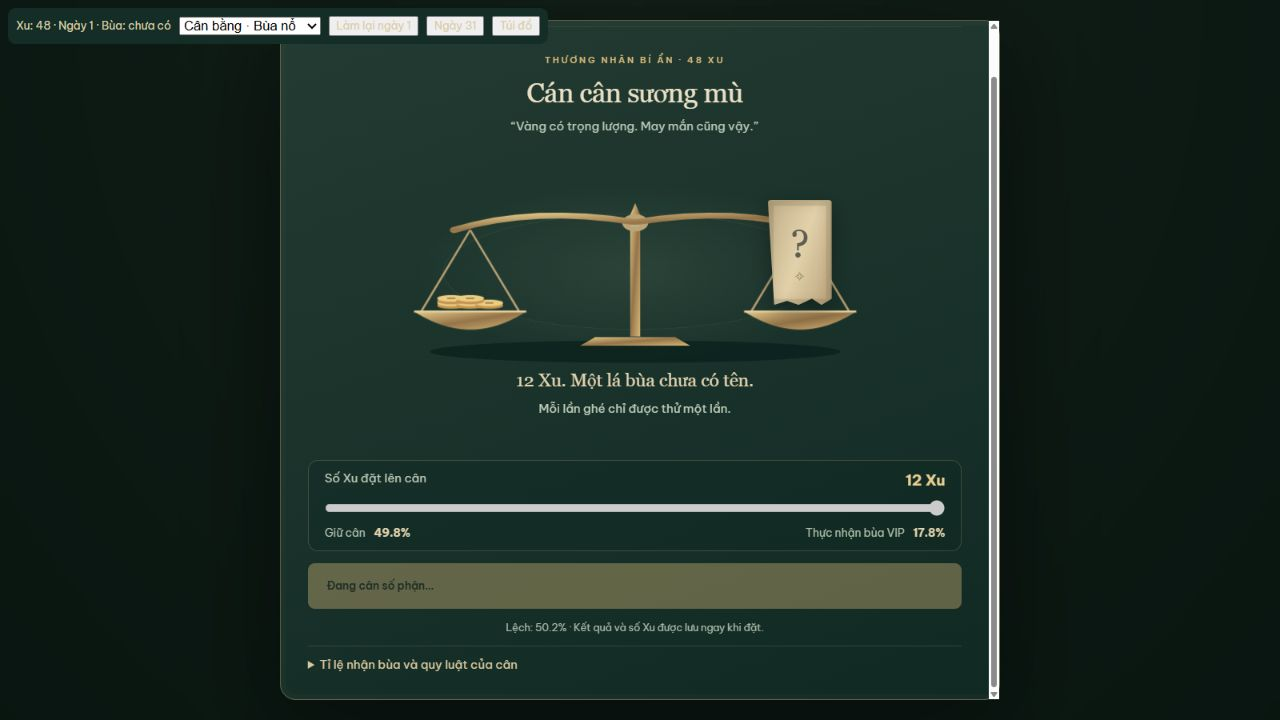
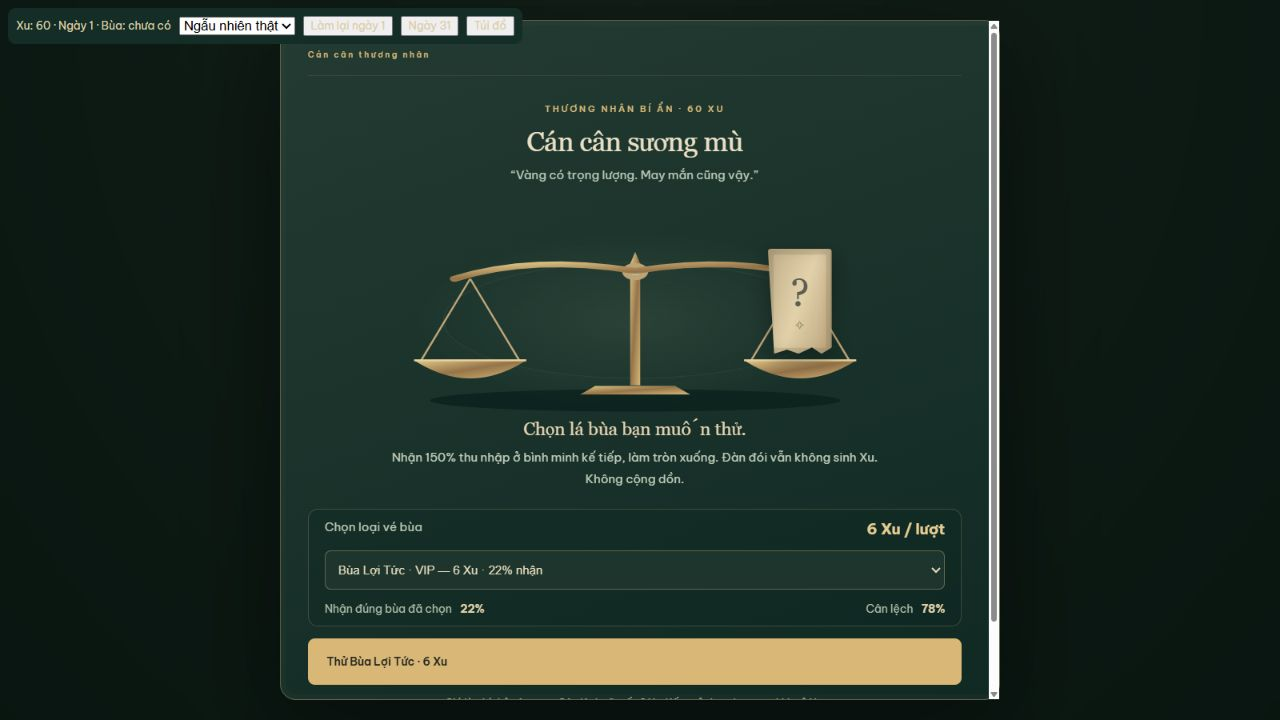
Let players choose charm tickets with individual prices and odds

diff --git a/src/game/MysticBalance.jsx b/src/game/MysticBalance.jsx
@@ -1,5 +1,5 @@
 import { useEffect, useState } from 'react';
-import { CHARMS, MIN_OFFERING, MAX_OFFERING, DEFAULT_OFFERING, charmOdds, balanceOdds, charmGrade } from './charms.js';
+import { CHARMS, charmOffer, charmOffers, ritualChance, charmGrade } from './charms.js';
 import { merchantAvailable, nextMerchantDay } from './rules.js';
 import ItemArt from './ItemArt.jsx';
 import { sound, unlockAudio } from './audio.js';
@@ -8,7 +8,7 @@ import './mystic.css';
 export default function MysticBalance({ state, dispatch }) {
   const ritual = state.magic?.ritual?.day === state.day ? state.magic.ritual : null;
   const [stage, setStage] = useState(ritual?.claimed ? 'done' : 'idle');
-  const [offering, setOffering] = useState(DEFAULT_OFFERING);
+  const [selected, setSelected] = useState('forageCharm');
   useEffect(() => {
     if (!ritual) { setStage('idle'); return; }
     if (ritual.claimed) { setStage('done'); return; }
@@ -25,9 +25,10 @@ export default function MysticBalance({ state, dispatch }) {
   const definition = shown ? CHARMS[ritual.item] : null;
   const spent = state.magic?.lastWeighedDay === state.day;
   const available = merchantAvailable(state);
-  const coins = ritual?.coins || offering, odds = balanceOdds(state.day, coins), tilt = Math.max(-16, Math.min(16, (ritual?.delta || 0) * 9));
-  const title = stage === 'weighing' ? `${coins} Xu. Một lá bùa chưa có tên.` : stage === 'settled' ? ritual.balanced ? 'Cán cân đứng yên… nó đã chọn bạn.' : `Cán cân nghiêng. Sương mù giữ lại ${coins} Xu.` : stage === 'reveal' ? 'Ấn phép đang hiện ra.' : stage === 'burn' ? 'Giấy hóa tro. Phép thuật ở lại.' : ritual ? ritual.balanced ? CHARMS[ritual.item].name : 'Không có lá bùa nào đáp lại.' : 'Đặt cược với màn sương.';
-  function weigh() { unlockAudio(); dispatch({ type: 'WEIGH_CHARM', coins: offering, balanceRoll: Math.random(), charmRoll: Math.random() }); }
+  const target = ritual?.item || selected, offer = charmOffer(state.day, target), coins = ritual?.coins || offer.price;
+  const chance = ritual ? ritualChance(ritual) : offer.chance, tilt = Math.max(-16, Math.min(16, (ritual?.delta || 0) * 9));
+  const title = stage === 'weighing' ? `${CHARMS[target].name} đã được niêm phong.` : stage === 'settled' ? ritual.balanced ? 'Cán cân đứng yên… nó đã chọn bạn.' : `Cán cân nghiêng. Sương mù giữ lại ${coins} Xu.` : stage === 'reveal' ? 'Ấn phép đang hiện ra.' : stage === 'burn' ? 'Giấy hóa tro. Phép thuật ở lại.' : ritual ? (ritual.balanced ? CHARMS[ritual.item].name : 'Lá bùa chưa đáp lại.') : 'Chọn lá bùa bạn muốn thử.';
+  function weigh() { unlockAudio(); dispatch({ type: 'WEIGH_CHARM', item: selected, balanceRoll: Math.random() }); }
   return <section className={`mystic-balance stage-${stage} ${ritual ? ritual.balanced ? 'is-balanced' : 'is-failed' : ''}`} style={{ '--failure-tilt': `${tilt}deg`, '--failure-counter': `${-tilt}deg`, '--failed-card-top': tilt > 0 ? '62%' : '36%' }} aria-label="Cân bùa của thương nhân bí ẩn">
     <header><span className="eyebrow">THƯƠNG NHÂN BÍ ẨN · {state.gold} XU</span><h2>Cán cân sương mù</h2><p>“Vàng có trọng lượng. May mắn cũng vậy.”</p></header>
     <div className="mystic-stage" aria-label={ritual ? ritual.balanced ? 'Cân đang giữ thăng bằng' : 'Cân bị lệch' : 'Đĩa trái để trống, lá bùa dấu hỏi ở đĩa phải'}>
@@ -44,11 +45,11 @@ export default function MysticBalance({ state, dispatch }) {
       </svg>
       <div className="scale-card-wrap"><div className="charm-paper">{shown ? <ItemArt item={ritual.item} size={124}/> : <div className="unknown-charm"><span>?</span><i>✧</i></div>}</div>{stage === 'burn' && <><div className="charm-flame"/>{Array.from({length:18},(_,i)=><i className="charm-ember" key={i} style={{'--drift':`${Math.sin(i*2.399)*85}px`,'--delay':`${i*.055}s`}}/>)}</>}</div>
     </div>
-    <div className="mystic-result" role="status" aria-live="polite"><h3>{title}</h3><p>{definition ? definition.description : !ritual ? 'Nhiều Xu gọi bùa quý hơn, nhưng khiến cán cân khó đứng yên hơn. Cân lệch sẽ mất toàn bộ số Xu đã đặt.' : stage === 'done' && !ritual.balanced ? 'Có thể cân lại vào lần ghé tiếp theo.' : 'Mỗi lần ghé chỉ được thử một lần.'}</p>{stage === 'done' && ritual?.balanced && <small>{ritual.item === 'hungerCurse' ? 'Lời nguyền đã kích hoạt.' : 'Ấn phép đã vào túi đồ I. Dùng vật phẩm để kích hoạt.'}</small>}</div>
-    <div className="charm-offering"><label htmlFor="charm-coins">Số Xu đặt lên cân <strong>{coins} Xu</strong></label><input id="charm-coins" aria-label="Số Xu đặt lên cân" type="range" min={MIN_OFFERING} max={MAX_OFFERING} step="1" value={coins} disabled={!!busy || !!ritual} onChange={e => setOffering(Number(e.target.value))}/><div className="charm-estimates"><span>Giữ cân <b>{odds.balanced.toFixed(1)}%</b></span><span>Thực nhận bùa VIP <b>{odds.vip.toFixed(1)}%</b></span></div></div>
-    <button className="button primary full mystic-stake" disabled={!available || spent || !!busy || state.gold < offering} onClick={weigh}>{busy ? 'Đang cân số phận…' : spent ? `Lần cân tới: ngày ${nextMerchantDay(state.day)}` : `Đặt ${offering} Xu lên cân`}</button>
+    <div className="mystic-result" role="status" aria-live="polite"><h3>{title}</h3><p>{definition ? definition.description : !ritual ? CHARMS[target].description : stage === 'done' && !ritual.balanced ? 'Có thể cân lại vào lần ghé tiếp theo.' : 'Mỗi lần ghé chỉ được thử một lần.'}</p>{stage === 'done' && ritual?.balanced && <small>{ritual.item === 'hungerCurse' ? 'Lời nguyền đã kích hoạt.' : 'Ấn phép đã vào túi đồ I. Dùng vật phẩm để kích hoạt.'}</small>}</div>
+    <div className="charm-offering"><label htmlFor="charm-target">Chọn loại vé bùa <strong>{coins} Xu / lượt</strong></label>{offer ? <select id="charm-target" aria-label="Loại bùa muốn thử" value={target} disabled={!!busy || !!ritual} onChange={e => setSelected(e.target.value)}>{charmOffers(state.day).map(row => <option key={row.id} value={row.id}>{CHARMS[row.id].name}{charmGrade(row.id) === 2 ? ' · VIP' : ''} — {row.price} Xu · {(row.chance * 100).toFixed(0)}% nhận</option>)}</select> : <p>Lượt cân cũ đang được hoàn tất.</p>}<div className="charm-estimates"><span>Nhận đúng bùa đã chọn <b>{(chance*100).toFixed(0)}%</b></span><span>Cân lệch <b>{((1-chance)*100).toFixed(0)}%</b></span></div></div>
+    <button className="button primary full mystic-stake" disabled={!available || spent || !!busy || !offer || state.gold < offer.price} onClick={weigh}>{busy ? 'Đang cân số phận…' : spent ? `Lần cân tới: ngày ${nextMerchantDay(state.day)}` : `Thử ${CHARMS[target].name} · ${coins} Xu`}</button>
     {!available && <p className="mystic-note">Thương nhân chỉ ghé ban ngày của ngày 1, 3, 5…</p>}
-    <p className="mystic-note">Lệch: {(100-odds.balanced).toFixed(1)}% · Kết quả và số Xu được lưu ngay khi đặt.</p>
-    <details className="charm-odds"><summary>Tỉ lệ nhận bùa và quy luật của cân</summary><p>Mỗi Xu tăng năng lượng gọi bùa: bùa hiếm được thêm trọng số 8%/Xu, bùa VIP thêm 35%/Xu so với mức đặt 1 Xu. Trọng số Bùa Lợi Tức giảm từ 8 xuống 2 theo số ngày sống sót.</p><p>Biên dao động = 1,25 + 0,055 × (Xu − 1) + 0,13 × độ hiếm (0/1/2). Cân rút độ lệch ngẫu nhiên đều trong ±biên; chỉ giữ được khi độ lệch không quá 1. Tỉ lệ thực nhận dưới đây đã tính cả nguy cơ cân lệch.</p><div>{charmOdds(state.day,coins).map(({id,receiveChance})=><article key={id}><ItemArt item={id} size={46}/><span><strong>{CHARMS[id].name}{charmGrade(id) === 2 ? ' · VIP' : ''}</strong><small>{CHARMS[id].description}</small></span><b>{receiveChance.toFixed(1)}%</b></article>)}</div></details>
+    <p className="mystic-note">Giá là phí thử vận may. Cân lệch sẽ mất {coins} Xu. Kết quả được lưu ngay khi trả Xu.</p>
+    <details className="charm-odds"><summary>Giá vé bùa và quy luật của cân</summary><p>Bùa thường có vé rẻ và tỉ lệ nhận cao. Bùa VIP có vé đắt hơn và khó nhận hơn. Thành công sẽ nhận đúng loại đã chọn.</p><p>Cân rút độ lệch đều trong ±(1 / tỉ lệ nhận). Chỉ giữ được khi |độ lệch| ≤ 1. Lợi Tức giảm 2 điểm phần trăm sau mỗi 5 ngày, tối thiểu 8%.</p><div>{charmOffers(state.day).map(({id,price,chance:rate})=><article key={id}><ItemArt item={id} size={46}/><span><strong>{CHARMS[id].name}{charmGrade(id) === 2 ? ' · VIP' : ''}</strong><small>{price} Xu / lượt · {CHARMS[id].description}</small></span><b>{(rate*100).toFixed(0)}%</b></article>)}</div></details>
   </section>;
 }

diff --git a/src/game/charms.test.js b/src/game/charms.test.js
@@ -1,13 +1,12 @@
 import test from 'node:test';
 import assert from 'node:assert/strict';
 import * as T from 'three';
-import { charmOdds, balanceOdds, drawCharm, balanceDrift, CHARM_ITEMS, BOMB_DAMAGE } from './charms.js';
+import { charmOffers, charmOffer, CHARM_ITEMS, BOMB_DAMAGE } from './charms.js';
 import { newGame, gameReducer as reduce, advanceDawn, readSave, SAVE_KEY } from './rules.js';
 import { evolveWolf, calculateStrike } from './catalog.js';
 import { PveEngine } from './PveEngine.js';
 import { createCombatCharms } from './combatCharms.js';
-const rollFor = (id, day = 1, coins = 3) => { const pool = charmOdds(day, coins); let before = 0; for (const row of pool) { if (row.id === id) return (before + row.chance / 2) / 100; before += row.chance; } throw new Error(id); };
-const bet = (state, id, coins = 3, balanceRoll = .5) => reduce(state, { type: 'WEIGH_CHARM', coins, balanceRoll, charmRoll: rollFor(id, state.day, coins) });
+const bet = (state, id, balanceRoll = .5) => reduce(state, { type: 'WEIGH_CHARM', item: id, balanceRoll });
 const claim = state => reduce(state, { type: 'RESOLVE_CHARM', id: state.magic.ritual.id });
 function fight() {
   let state = newGame(); const wolf = { ...evolveWolf('normal', 1), id: 'test-wolf', wolf: true, penId: 0, checked: [], defeated: false };
@@ -15,56 +14,66 @@ function fight() {
 }
 const restore = state => readSave({ getItem: key => key === SAVE_KEY ? JSON.stringify(state) : null });
 
-test('larger offerings raise actual VIP rewards while making balance harder; later interest remains rarer', () => {
-  for (const day of [1, 11, 31, 100]) {
-    let previous = null;
-    for (let coins = 1; coins <= 12; coins++) {
-      const pool = charmOdds(day, coins), odds = balanceOdds(day, coins);
-      assert.ok(Math.abs(pool.reduce((sum, row) => sum + row.chance, 0) - 100) < 1e-8);
-      assert.ok(Math.abs(pool.reduce((sum, row) => sum + row.receiveChance, 0) - odds.balanced) < 1e-8);
-      assert.ok(odds.vip > 0 && odds.vip < odds.balanced && odds.balanced < 100);
-      if (previous) { assert.ok(odds.vip > previous.vip); assert.ok(odds.balanced < previous.balanced); }
-      for (const row of pool) assert.equal(drawCharm(day, rollFor(row.id, day, coins), coins), row.id);
-      previous = odds;
-    }
-  }
-  for (const coins of [1, 3, 6, 12]) assert.ok(charmOdds(31, coins).find(row => row.id === 'yieldCharm').receiveChance < charmOdds(1, coins).find(row => row.id === 'yieldCharm').receiveChance);
+test('each selected charm ticket has its own fixed fee and chance, with expensive VIP rewards less likely', () => {
+  const offers = charmOffers(1);
+  assert.equal(offers.length, 8);
+  assert.equal(charmOffer(1, 'forageCharm').price, 1); assert.equal(charmOffer(1, 'forageCharm').chance, .85);
+  assert.equal(charmOffer(1, 'yieldCharm').price, 6); assert.equal(charmOffer(1, 'yieldCharm').chance, .22);
+  for (const a of offers) for (const b of offers) if (a.price > b.price) assert.ok(a.chance < b.chance);
+  assert.equal(charmOffer(1, 'hungerCurse'), null);
+  assert.ok(charmOffer(31, 'yieldCharm').chance < charmOffer(1, 'yieldCharm').chance);
+  assert.equal(charmOffer(100, 'yieldCharm').chance, .08);
 });
 
-test('the saved signed weight deviation, rather than an unrelated success roll, decides balance', () => {
-  for (const coins of [1, 3, 12]) for (const id of Object.keys(CHARM_ITEMS)) {
-    for (const balanceRoll of [0, .05, .3, .5, .7, .95, .999]) {
-      const state = bet(newGame(), id, coins, balanceRoll), ritual = state.magic.ritual;
-      assert.ok(Math.abs(ritual.delta - (balanceRoll * 2 - 1) * balanceDrift(coins, id)) < 1e-10);
+test('the signed deviation reproduces each displayed ticket chance and only rewards the selected charm', () => {
+  for (const day of [1, 31]) for (const id of Object.keys(CHARM_ITEMS)) {
+    const offer = charmOffer(day, id);
+    let wins = 0;
+    for (let i = 0; i < 200; i++) {
+      const roll = (i + .5) / 200, state = bet({ ...newGame(), day }, id, roll), ritual = state.magic.ritual;
+      assert.ok(Math.abs(ritual.delta - (roll * 2 - 1) / offer.chance) < 1e-10);
+      assert.equal(ritual.item, id); assert.equal(ritual.coins, offer.price); assert.equal(ritual.chance, offer.chance);
       assert.equal(ritual.balanced, Math.abs(ritual.delta) <= 1);
-      assert.equal(state.gold, 25 - coins);
+      assert.equal(state.gold, 25 - offer.price);
+      if (ritual.balanced) { wins++; assert.equal(claim(state).inventory[id], 1); }
     }
+    assert.ok(Math.abs(wins / 200 - offer.chance) < .011, 'advertised probability matches observed wins across the roll interval');
   }
 });
 
-test('one paid offering per visit survives save/close/resume and awards its charm exactly once', () => {
-  let state = bet(newGame(), 'bombCharm', 9);
-  assert.equal(state.inventory.bombCharm || 0, 0, 'reward stays sealed until the ritual finishes');
-  assert.equal(bet(state, 'yieldCharm', 12).gold, state.gold);
+test('one paid offering per visit survives save/close/resume and awards its selected charm exactly once', () => {
+  let state = bet(newGame(), 'bombCharm');
+  assert.equal(state.inventory.bombCharm || 0, 0);
+  assert.equal(bet(state, 'yieldCharm').gold, state.gold);
   assert.deepEqual(restore(state).magic, state.magic);
   assert.equal(reduce(state, { type: 'RESOLVE_CHARM', id: 'wrong' }).inventory.bombCharm || 0, 0);
   state = claim(restore(state)); assert.equal(state.inventory.bombCharm, 1);
   assert.equal(claim(state).inventory.bombCharm, 1);
   assert.equal(bet(state, 'blinkCharm').gold, state.gold);
   const night = reduce(bet(newGame(), 'blinkCharm'), { type: 'NIGHT', residents: [] });
-  assert.equal(night.inventory.blinkCharm, 1, 'leaving before the animation ends does not lose the paid result');
+  assert.equal(night.inventory.blinkCharm, 1);
   const nextVisit = { ...advanceDawn({ ...night, residents: [] }, () => .9), day: 3 };
-  assert.equal(bet(nextVisit, 'speedCharm').gold, nextVisit.gold - 3);
+  assert.equal(bet(nextVisit, 'speedCharm').gold, nextVisit.gold - charmOffer(3, 'speedCharm').price);
 });
 
-test('failed offerings keep the cost; invalid stakes, absent merchants and direct charm purchases cannot bypass the scale', () => {
-  const failed = claim(bet(newGame(), 'moonCharm', 12, .999));
-  assert.equal(failed.gold, 13); assert.equal(failed.inventory.moonCharm || 0, 0);
-  for (const coins of [0, -1, 13, 1.5, NaN, Infinity]) assert.equal(bet(newGame(), 'bombCharm', coins).gold, 25);
-  assert.equal(bet({ ...newGame(), gold: 2 }, 'bombCharm', 3).gold, 2);
+test('failed tickets keep their fee and cannot choose a prize with a forged cheap price', () => {
+  const failed = claim(bet(newGame(), 'moonCharm', .999));
+  assert.equal(failed.gold, 20); assert.equal(failed.inventory.moonCharm || 0, 0);
+  for (const item of ['unknown', 'hungerCurse', '', null]) assert.equal(bet(newGame(), item).gold, 25);
+  const forged = reduce(newGame(), { type: 'WEIGH_CHARM', item: 'yieldCharm', coins: 1, balanceRoll: .5 });
+  assert.equal(forged.gold, 19); assert.equal(forged.magic.ritual.coins, 6);
+  assert.equal(bet({ ...newGame(), gold: 2 }, 'bombCharm').gold, 2);
   assert.equal(bet({ ...newGame(), day: 2 }, 'bombCharm').gold, 25);
   assert.equal(bet({ ...newGame(), phase: 'night' }, 'bombCharm').gold, 25);
   assert.equal(reduce(newGame(), { type: 'BUY', item: 'bombCharm' }).inventory.bombCharm || 0, 0);
+});
+
+test('a previously paid random-pool ritual keeps its result when loaded after the ticket update', () => {
+  const state = newGame(); state.gold = 13;
+  state.magic = { sequence: 1, lastWeighedDay: 1, ritual: { id: 'scale-1-1', day: 1, coins: 12, item: 'moonCharm', delta: 0, balanced: true, claimed: false } };
+  const loaded = restore(state); assert.ok(loaded);
+  const resolved = claim(loaded); assert.equal(resolved.gold, 13); assert.equal(resolved.inventory.moonCharm, 1);
+  assert.equal(claim(resolved).inventory.moonCharm, 1);
 });
 
 test('bombs and teleports consume owned charms; delayed bomb damage cannot be replayed after a reload', () => {
@@ -108,7 +117,8 @@ test('interest pays 150 percent once, respects hunger, and the bad charm adds on
   assert.equal(reduce(state, { type: 'USE', item: 'yieldCharm' }).inventory.yieldCharm, 1);
   const morning = advanceDawn(state, () => .9); assert.equal(morning.gold - state.gold, 7); assert.equal(morning.farm.incomeMultiplier, 1);
   assert.equal(advanceDawn({ ...state, farm: { ...state.farm, fed: false } }, () => .9).gold, state.gold);
-  const cursed = claim(bet(newGame(), 'hungerCurse'));
+  const legacy = newGame(); legacy.magic = { sequence: 1, lastWeighedDay: 1, ritual: { id: 'legacy-curse', day: 1, coins: 3, item: 'hungerCurse', delta: 0, balanced: true, claimed: false } };
+  const cursed = claim(legacy);
   assert.equal(claim(cursed).farm.hungerCurse, 10);
   const hungry = advanceDawn(cursed, () => .9); assert.equal(hungry.flock[0].hunger, 25); assert.equal(hungry.farm.hungerCurse, 0);
   const boosted = { ...morning, inventory: { ...morning.inventory, forageCharm: 1, hay: 11 } };

diff --git a/src/game/GameApp.jsx b/src/game/GameApp.jsx
@@ -45,7 +45,7 @@ export default function GameApp() {
     {panel === 'mystic' && <Modal title="Thương nhân bí ẩn" className="camp-menu charm-modal" onClose={close}><MysticBalance state={state} dispatch={dispatch} /></Modal>}
     {panel === 'inventory' && <Modal title="Túi đồ" className="camp-menu" onClose={close}><Inventory state={state} dispatch={dispatch} /></Modal>}
     {['home', 'farm'].includes(panel) && <Modal title={panel === 'home' ? 'Nhà chủ trại · Giường nghỉ' : 'Sinh hoạt trang trại'} className="camp-menu" onClose={close}><FarmActivities state={state} dispatch={dispatch} />{night && <NightInvestigation state={state} dispatch={dispatch} penId={0} />}<button className="button primary full" onClick={() => dispatch({ type: night ? 'DAWN' : 'NIGHT' })}>{night ? 'Kết thúc ca gác · Đón bình minh' : 'Nghỉ đến tối · Bắt đầu canh gác'}</button>{night && <p className="modal-copy">Bỏ qua ca gác vẫn tính sói ăn cừu.</p>}{!night && <button className="button secondary full" disabled={state.gold < state.targetGold} onClick={() => dispatch({ type: 'SELL' })}>Bán trang trại · {state.gold}/{state.targetGold}</button>}</Modal>}
-    {panel === 'guide' && <Modal title="Biển hướng dẫn Trại Sương" className="camp-menu" onClose={close}><h2>Chăm đàn ban ngày. Canh sói ban đêm.</h2><div className="guide-copy"><p>WASD đi lại · chuột nhìn · E tương tác ở gần · F đèn pin · Ctrl phải mở chuột · Esc cài đặt.</p><p>Mở cửa cho cừu ra bãi khi trời nắng. Độ no tăng khi chúng gặm cỏ. Ngày mưa cần cỏ khô trong kho hoặc mua từ người bán.</p><p>Đi tới bãi cỏ riêng phía đông, bước vào luống và nhấn E để cắt. Mỗi ngày nắng có 2 luống, mỗi luống được 2 bó cỏ khô; cỏ mọc lại sáng hôm sau. Mỗi ngày có 25% khả năng mưa, độc lập với những ngày trước.</p><p>Giường ở nhà: nghỉ đến tối hoặc ngủ đến sáng. Thương nhân ghé ban ngày của ngày 1, 3, 5…; ngày nghỉ sẽ không có gian hàng. Tab mở sinh hoạt, I mở túi đồ.</p><p>Đánh sói: WASD di chuyển, J tấn công, K đỡ, Space né. Bùa nổ: R, dịch chuyển: Q khi có bùa trong túi. Thương nhân bí ẩn có cân bùa cho phép đặt 1–12 Xu; nhiều Xu gọi bùa VIP nhiều hơn nhưng cân khó giữ hơn. Canh lúc sói hồi chiêu để phản đòn; đỡ đúng lúc tránh toàn bộ sát thương.</p><p>H gọi Shiba kiểm tra chuồng. Chó nghỉ hết đêm đó và sáng mai hồi phục; khi không kiểm tra sẽ tự hỗ trợ chiến đấu.</p><p>Tông đơ an toàn 2 lần đầu; từ lần 3 có xác suất hỏng tăng dần. Mỗi lần cạo vẫn dùng một pin.</p></div></Modal>}
+    {panel === 'guide' && <Modal title="Biển hướng dẫn Trại Sương" className="camp-menu" onClose={close}><h2>Chăm đàn ban ngày. Canh sói ban đêm.</h2><div className="guide-copy"><p>WASD đi lại · chuột nhìn · E tương tác ở gần · F đèn pin · Ctrl phải mở chuột · Esc cài đặt.</p><p>Mở cửa cho cừu ra bãi khi trời nắng. Độ no tăng khi chúng gặm cỏ. Ngày mưa cần cỏ khô trong kho hoặc mua từ người bán.</p><p>Đi tới bãi cỏ riêng phía đông, bước vào luống và nhấn E để cắt. Mỗi ngày nắng có 2 luống, mỗi luống được 2 bó cỏ khô; cỏ mọc lại sáng hôm sau. Mỗi ngày có 25% khả năng mưa, độc lập với những ngày trước.</p><p>Giường ở nhà: nghỉ đến tối hoặc ngủ đến sáng. Thương nhân ghé ban ngày của ngày 1, 3, 5…; ngày nghỉ sẽ không có gian hàng. Tab mở sinh hoạt, I mở túi đồ.</p><p>Đánh sói: WASD di chuyển, J tấn công, K đỡ, Space né. Bùa nổ: R, dịch chuyển: Q khi có bùa trong túi. Thương nhân bí ẩn có cân bùa: chọn loại vé muốn thử, mỗi loại có giá và tỉ lệ nhận riêng; bùa VIP đắt và khó nhận hơn. Canh lúc sói hồi chiêu để phản đòn; đỡ đúng lúc tránh toàn bộ sát thương.</p><p>H gọi Shiba kiểm tra chuồng. Chó nghỉ hết đêm đó và sáng mai hồi phục; khi không kiểm tra sẽ tự hỗ trợ chiến đấu.</p><p>Tông đơ an toàn 2 lần đầu; từ lần 3 có xác suất hỏng tăng dần. Mỗi lần cạo vẫn dùng một pin.</p></div></Modal>}
     {panel === 'settings' && <Modal title="Cài đặt" onClose={close}><h2>Tạm nghỉ.</h2><label className="settings-field">Độ khó<select aria-label="Độ khó" value={state.difficulty} onChange={e => dispatch({ type: 'DIFFICULTY', value: e.target.value })}><option value="easy">Dễ · Cừu miễn sát thương trong trận</option><option value="normal">Thường · Cừu chịu nhiều đòn mới chết</option><option value="hard">Khó · Sói gây sát thương cao hơn</option></select></label><label className="settings-field">Độ nhạy chuột · {sensitivity.toFixed(1)}<input aria-label="Độ nhạy chuột" type="range" min=".2" max="2" step=".1" value={sensitivity} onChange={e => setSensitivity(Number(e.target.value))} /></label><div className="settings-links"><button className="button secondary" onClick={() => open('farm')}>Sinh hoạt</button><button className="button secondary" onClick={() => open('inventory')}>Túi đồ</button><button className="button secondary" onClick={() => open('guide')}>Biển hướng dẫn</button><button className="button secondary" onClick={fullscreen}>Toàn màn hình</button><button className="button secondary" onClick={() => changeMuted(v => !v)}>{muted ? 'Bật âm thanh' : 'Tắt âm thanh'}</button><button className="button secondary" onClick={() => { setPanel(null); setStarted(false); }}>Màn hình chính</button></div>{saveError && <p>Không thể lưu tiến trình trong trình duyệt này.</p>}<button className="button primary full" onClick={close}>Tiếp tục chơi</button></Modal>}
     {panel === 'new' && <Modal title="Chơi lại" onClose={() => setPanel(null)}><p className="modal-copy">Thay bản lưu hiện tại bằng trang trại mới?</p><button className="button primary full" onClick={() => begin(true)}>Bắt đầu lại</button></Modal>}
     {terminal && started && <Modal title={state.phase === 'win' ? 'Ngày trở về' : 'Mất trang trại'}><h2>{state.phase === 'win' ? 'Giữ được lời hứa.' : 'Sương đã nuốt mất trại.'}</h2><p className="modal-copy">{state.report}</p><button className="button primary full" onClick={() => begin(true)}>Một câu chuyện mới</button><button className="button secondary full" onClick={() => setStarted(false)}>Màn hình chính</button></Modal>}

diff --git a/src/game/rules.js b/src/game/rules.js
@@ -1,6 +1,6 @@
 import { ITEMS, WOLVES, spawnWolves, evolveWolf, absorbDamage, calculateStrike } from './catalog.js';
 import { inMeadowPatch } from './worldMath.js';
-import { CHARMS, MIN_OFFERING, MAX_OFFERING, BOMB_DAMAGE, drawCharm, balanceDrift } from './charms.js';
+import { CHARMS, MIN_OFFERING, MAX_OFFERING, BOMB_DAMAGE, charmOffer } from './charms.js';
 export const SAVE_KEY = 'under-the-wool-v3';
 export const SHEEP_NAMES = ['Bông', 'Mây', 'Sữa', 'Bắp', 'Mochi', 'Mè', 'Kem', 'Đậu'];
 export const TELLS = ['eyes', 'paws', 'teeth', 'body', 'tail'];
@@ -100,9 +100,10 @@ function reduce(state, action) {
   switch (action.type) {
     case 'NEW': return newGame();
     case 'WEIGH_CHARM': {
-      if (!merchantAvailable(state) || !Number.isInteger(action.coins) || action.coins < MIN_OFFERING || action.coins > MAX_OFFERING || state.gold < action.coins || state.magic.lastWeighedDay === state.day || state.magic.ritual && !state.magic.ritual.claimed || ![action.balanceRoll, action.charmRoll].every(value => Number.isFinite(value) && value >= 0 && value < 1)) return state;
-      const sequence = state.magic.sequence + 1, item = drawCharm(state.day, action.charmRoll, action.coins), drift = balanceDrift(action.coins, item), delta = (action.balanceRoll * 2 - 1) * drift, balanced = Math.abs(delta) <= 1;
-      return { ...state, gold: state.gold - action.coins, magic: { ...state.magic, sequence, lastWeighedDay: state.day, ritual: { id: `scale-${state.day}-${sequence}`, day: state.day, coins: action.coins, delta, balanced, item, claimed: false } }, report: `Đã đặt ${action.coins} Xu lên cân. Số phận của lá bùa đã được định.` };
+      const offer = charmOffer(state.day, action.item);
+      if (!offer || !merchantAvailable(state) || state.gold < offer.price || state.magic.lastWeighedDay === state.day || state.magic.ritual && !state.magic.ritual.claimed || !Number.isFinite(action.balanceRoll) || action.balanceRoll < 0 || action.balanceRoll >= 1) return state;
+      const sequence = state.magic.sequence + 1, delta = (action.balanceRoll * 2 - 1) / offer.chance, balanced = Math.abs(delta) <= 1;
+      return { ...state, gold: state.gold - offer.price, magic: { ...state.magic, sequence, lastWeighedDay: state.day, ritual: { id: `scale-${state.day}-${sequence}`, model: 'target-v1', day: state.day, coins: offer.price, chance: offer.chance, delta, balanced, item: offer.id, claimed: false } }, report: `Đã mua lượt cân ${CHARMS[offer.id].name} với ${offer.price} Xu. Kết quả đã được niêm phong.` };
     }
     case 'RESOLVE_CHARM': return action.id === state.magic.ritual?.id ? settleRitual(state) : state;
     case 'DIFFICULTY': return ['easy', 'normal', 'hard'].includes(action.value) && state.phase !== 'combat' ? { ...state, difficulty: action.value } : state;
@@ -275,6 +276,7 @@ export function readSave(storage = localStorage) {
     if (s.magic && (!Number.isInteger(s.magic.sequence) || s.magic.sequence < 0 || !Number.isInteger(s.magic.lastWeighedDay) || s.magic.lastWeighedDay < 0 || s.magic.lastWeighedDay > s.day)) return null;
     const ritual = s.magic?.ritual;
     if (ritual && (typeof ritual.id !== 'string' || !Number.isInteger(ritual.day) || ritual.day < 1 || ritual.day > s.day || !Number.isInteger(ritual.coins) || ritual.coins < MIN_OFFERING || ritual.coins > MAX_OFFERING || !Number.isFinite(ritual.delta) || !CHARMS[ritual.item] || typeof ritual.balanced !== 'boolean' || typeof ritual.claimed !== 'boolean' || ritual.balanced !== (Math.abs(ritual.delta) <= 1))) return null;
+    if (ritual?.model === 'target-v1' && (!charmOffer(ritual.day, ritual.item) || !Number.isFinite(ritual.chance) || ritual.chance <= 0 || ritual.chance >= 1)) return null;
     if (s.player.speedBuff != null && ![1, 1.35].includes(s.player.speedBuff) || s.player.charmDamageBuff != null && ![1, 1.3].includes(s.player.charmDamageBuff) || s.player.wardCharges != null && ![0, 1].includes(s.player.wardCharges) || s.farm.incomeMultiplier != null && ![1, 1.5].includes(s.farm.incomeMultiplier)) return null;
     if (s.combat?.pendingBomb != null && (!Number.isInteger(s.combat.pendingBomb) || s.combat.pendingBomb < 1 || s.combat.pendingBomb > s.combat.charmSequence)) return null;
     if (s.residents.some(a => !a || typeof a.id !== 'string' || !Array.isArray(a.checked) || (a.wolf && (!WOLVES[a.type] || !Array.isArray(a.tells))))) return null;

diff --git a/src/game/charms.js b/src/game/charms.js
@@ -1,6 +1,5 @@
 export const MIN_OFFERING = 1;
 export const MAX_OFFERING = 12;
-export const DEFAULT_OFFERING = 3;
 export const BOMB_DAMAGE = 34;
 export const CHARMS = {
   forageCharm: { name: 'Bùa Cỏ Non', glyph: 'sprout', color: '#a8c887', description: 'Đổi thành 2 bó cỏ khô ngoài chiến đấu. Kho tối đa 12 bó.' },
@@ -15,22 +14,26 @@ export const CHARMS = {
 };
 export const CHARM_ITEMS = Object.fromEntries(Object.entries(CHARMS).filter(([id]) => id !== 'hungerCurse').map(([id, charm]) => [id, { ...charm, id, price: 0, shop: 'charm' }]));
 export function charmGrade(id) { return ['moonCharm', 'yieldCharm'].includes(id) ? 2 : ['forageCharm', 'insightCharm'].includes(id) ? 0 : 1; }
-export function balanceDrift(coins, id) { return 1.25 + .055 * (coins - 1) + .13 * charmGrade(id); }
-export function charmOdds(day = 1, coins = DEFAULT_OFFERING) {
-  coins = Math.max(MIN_OFFERING, Math.min(MAX_OFFERING, Math.floor(Number(coins) || MIN_OFFERING)));
-  const interest = Math.max(2, 8 - Math.floor(Math.max(0, day - 1) / 5));
-  const pool = Object.entries({ forageCharm: 24 - interest, insightCharm: 16, wardCharm: 14, moonCharm: 8, bombCharm: 15, blinkCharm: 12, speedCharm: 9, yieldCharm: interest, hungerCurse: 2 }).map(([id, weight]) => ({ id, weight: weight * (charmGrade(id) === 2 ? 1 + .35 * (coins - 1) : charmGrade(id) === 1 && id !== 'hungerCurse' ? 1 + .08 * (coins - 1) : 1) }));
-  const total = pool.reduce((sum, row) => sum + row.weight, 0);
-  return pool.map(({id, weight}) => { const chance = weight / total * 100, balanceChance = 1 / balanceDrift(coins, id); return { id, chance, balanceChance, receiveChance: chance * balanceChance }; });
+export const CHARM_TICKETS = {
+  forageCharm: { price: 1, chance: .85 },
+  insightCharm: { price: 2, chance: .75 },
+  wardCharm: { price: 3, chance: .65 },
+  speedCharm: { price: 3, chance: .62 },
+  bombCharm: { price: 4, chance: .55 },
+  blinkCharm: { price: 4, chance: .5 },
+  moonCharm: { price: 5, chance: .35 },
+  yieldCharm: { price: 6, chance: .22 },
+};
+export function charmOffer(day, id) {
+  const ticket = CHARM_TICKETS[id];
+  if (!ticket) return null;
+  const chance = id === 'yieldCharm' ? Math.max(.08, ticket.chance - Math.floor(Math.max(0, day - 1) / 5) * .02) : ticket.chance;
+  return { id, price: ticket.price, chance };
 }
-export function balanceOdds(day, coins) {
-  const pool = charmOdds(day, coins);
-  return { balanced: pool.reduce((sum, row) => sum + row.receiveChance, 0), vip: pool.filter(row => charmGrade(row.id) === 2).reduce((sum, row) => sum + row.receiveChance, 0) };
-}
-export function drawCharm(day, roll, coins = DEFAULT_OFFERING) {
-  let value = Math.min(.999999999, Math.max(0, Number.isFinite(roll) ? roll : 0)) * 100;
-  for (const item of charmOdds(day, coins)) { value -= item.chance; if (value < 0) return item.id; }
-  return 'hungerCurse';
+export function charmOffers(day = 1) { return Object.keys(CHARM_TICKETS).map(id => charmOffer(day, id)); }
+// Pending rituals from the previous random-pool version keep their paid result.
+export function ritualChance(ritual) {
+  return ritual.chance ?? 1 / (1.25 + .055 * (ritual.coins - 1) + .13 * charmGrade(ritual.item));
 }
 export function canUseCharm(state, id) {
   if (!['day', 'night', 'combat'].includes(state.phase) || !(state.inventory[id] > 0)) return false;

diff --git a/dev/charms.jsx b/dev/charms.jsx
@@ -4,7 +4,7 @@ import { createRoot } from 'react-dom/client';
 import MysticBalance from '../src/game/MysticBalance.jsx';
 import { Inventory } from '../src/game/PhasePanels.jsx';
 import { newGame, gameReducer } from '../src/game/rules.js';
-import { charmOdds, CHARMS } from '../src/game/charms.js';
+import { CHARMS } from '../src/game/charms.js';
 import { Modal } from '../src/game/ui.jsx';
 import '../src/game/game.css';
 import '../src/game/gdd.css';
@@ -16,10 +16,7 @@ function reducer(state, action) {
   if (action.type === 'QA_CASE') return { ...state, qaCase: action.value };
   if (action.type === 'QA_BAG') return { ...state, qaBag: !state.qaBag };
   if (action.type === 'QA_RESET') return { ...fresh(action.day || 1), qaRun: state.qaRun + 1 };
-  if (action.type === 'WEIGH_CHARM' && state.qaCase !== 'random') {
-    let before = 0; const id = state.qaCase === 'failure' ? 'bombCharm' : state.qaCase;
-    for (const row of charmOdds(state.day, action.coins)) { if (row.id === id) { action = { ...action, charmRoll: (before + row.chance / 2) / 100, balanceRoll: state.qaCase === 'failure' ? .999 : .5 }; break; } before += row.chance; }
-  }
+  if (action.type === 'WEIGH_CHARM' && state.qaCase !== 'random') action = { ...action, balanceRoll: state.qaCase === 'failure' ? .999 : .5 };
   return gameReducer(state, action);
 }
 function Preview() {
@@ -27,7 +24,7 @@ function Preview() {
   return <div className="game-app immersive quiet-farm is-playing" style={{ background: 'radial-gradient(ellipse at top,#3c5144,#102720)' }}>
     <div style={{position:'fixed',left:8,top:8,zIndex:2000,display:'flex',gap:8,alignItems:'center',padding:8,background:'#142d27',color:'#dacda9',fontSize:11,borderRadius:8}}>
       <span role="status">Xu: {state.gold} · Ngày {state.day} · Bùa: {Object.entries(state.inventory).filter(([id,n])=> CHARMS[id]&&n>0).map(([id,n])=>`${CHARMS[id].name} ×${n}`).join(', ') || 'chưa có'}</span>
-      <select aria-label="Kết quả kiểm thử" value={state.qaCase} onChange={e=>dispatch({type:'QA_CASE',value:e.target.value})}><option value="random">Ngẫu nhiên thật</option><option value="bombCharm">Cân bằng · Bùa nổ</option><option value="yieldCharm">Cân bằng · Lợi tức</option><option value="hungerCurse">Cân bằng · Bùa đen</option><option value="failure">Cân lệch</option></select>
+      <select aria-label="Kết quả kiểm thử" value={state.qaCase} onChange={e=>dispatch({type:'QA_CASE',value:e.target.value})}><option value="random">Ngẫu nhiên thật</option><option value="success">Cân bằng</option><option value="failure">Cân lệch</option></select>
       <button onClick={()=>dispatch({type:'QA_RESET',day:1})}>Làm lại ngày 1</button><button onClick={()=>dispatch({type:'QA_RESET',day:31})}>Ngày 31</button><button onClick={()=>dispatch({type:'QA_BAG'})}>{state.qaBag?'Trở về cân':'Túi đồ'}</button>
     </div>
     <Modal title={state.qaBag?'Túi đồ kiểm thử':'Cán cân thương nhân'} className="camp-menu charm-modal">{state.qaBag?<Inventory state={state} dispatch={dispatch}/>:<MysticBalance key={`${state.day}-${state.qaRun}`} state={state} dispatch={dispatch}/>}</Modal>

diff --git a/src/game/mystic.css b/src/game/mystic.css
@@ -7,3 +7,5 @@
 
 .mystic-stage{height:230px}.mystic-balance header h2{font-size:28px;margin:5px 0}.mystic-balance header p{margin:6px 0}.mystic-result{min-height:82px}.mystic-result h3{font-size:18px;margin-bottom:6px}.charm-offering{padding:10px 16px}.charm-offering input{margin:10px 0}.mystic-stake{margin-top:4px}.charm-odds{margin-top:10px;padding-top:10px}
 @media(max-width:650px){.mystic-stage{height:205px}.mystic-result{min-height:95px}.mystic-balance header h2{font-size:24px}.charm-estimates{font-size:10px;gap:5px}}
+
+.charm-offering select{width:100%;max-width:100%;margin:12px 0;padding:11px 9px;border-radius:6px;border:1px solid #c2b28666;background:#1d352d;color:#e8ddbf;font-size:12px;cursor:pointer}.charm-offering select:disabled{opacity:.75;cursor:default}

diff --git a/README.md b/README.md
@@ -82,10 +82,12 @@ Bản lưu v3 dùng khóa `under-the-wool-v3`. Bản v2 được chuyển tiền
 
 ## Cân bùa và phép thuật
 
-Thương nhân bí ẩn ở bên trái sân có chiếc cân riêng; E mở nghi thức trong game. Mỗi lần ghé (ngày 1, 3, 5…) chỉ cân một lần, chọn đặt 1–12 Xu. Nhiều Xu tăng trọng số bùa hiếm 8%/Xu, VIP 35%/Xu so với mức 1 Xu. Hệ thống gọi một bùa trước, rồi rút độ lệch đều trong ±[1,25 + 0,055 × (Xu−1) + 0,13 × độ hiếm]. Chỉ nhận khi |độ lệch| ≤ 1. Xác suất giữ cân và thực nhận VIP đều được tính từ đúng mô hình này, hiển thị trước khi đặt. Ngày 1: 1 Xu khoảng 73,9% giữ cân / 10,6% nhận VIP; 12 Xu khoảng 49,8% / 17,8%. Cân lệch mất toàn bộ Xu đặt.
+Thương nhân bí ẩn ở bên trái sân có chiếc cân riêng; E mở nghi thức trong game. Mỗi lần ghé (ngày 1, 3, 5…) chỉ thử một lần. Người chơi chọn loại vé bùa trước: Cỏ Non 1 Xu/85%, Mắt Cú 2 Xu/75%, Da Đá 3 Xu/65%, Phong Hành 3 Xu/62%, Hỏa Bộc 4 Xu/55%, Dịch Chuyển 4 Xu/50%, Trăng Bạc VIP 5 Xu/35%, Lợi Tức VIP 6 Xu/22%. Bùa đắt có tỉ lệ nhận thấp hơn; thành công nhận đúng loại chọn. Lợi Tức giảm 2 điểm phần trăm sau mỗi 5 ngày, tối thiểu 8%.
+
+Giá lượt và xác suất được tra theo loại bùa trong reducer; client không được tự đặt giá. Cân rút độ lệch đều trong ±(1 / xác suất nhận), thành công khi |độ lệch| ≤ 1; xác suất hiển thị vì thế đúng với cơ chế cân. Cân lệch mất phí lượt. Lá giấy niêm phong vẫn có dấu hỏi cho đến khi kết quả hiện ra.
 
 Kết quả, số Xu và độ lệch được lưu ngay khi đặt. Cân thành công thì lá bùa lộ ký hiệu và bốc cháy, ấn phép vào túi đồ đúng một lần. Đóng/mở hoặc tải lại không đổi kết quả; nếu chuyển buổi khi nghi thức còn dở, kết quả được hoàn tất để không mất phần đã trả tiền.
 
-Bùa gồm Cỏ Non (+2 cỏ), Mắt Cú (hồi 1 năng lượng điều tra, tối đa 2), Da Đá (chặn một đòn, hết hạn sáng mai), Trăng Bạc (+30% sát thương một trận), Hỏa Bộc (R/nút Bùa nổ, ném gây 34 sát thương chỉ lên sói), Dịch Chuyển (Q/nút, đi tức thời theo WASD hoặc lùi khỏi sói, 0,4 giây tránh đòn), Phong Hành (+35% tốc độ chạy một trận), Lợi Tức (150% thu nhập bình minh kế tiếp, làm tròn xuống; đàn đói vẫn 0). Buff không cộng dồn; Trăng Bạc không cộng với thuốc tăng lực. Lợi Tức có trọng số cơ bản giảm 8 → 2 sau mỗi 5 ngày; trọng số mất đi chuyển sang Cỏ Non. Có Lời Nguyền Đói tự kích hoạt khi nhận, sáng mai mất thêm 10 độ no.
+Bùa gồm Cỏ Non (+2 cỏ), Mắt Cú (hồi 1 năng lượng điều tra, tối đa 2), Da Đá (chặn một đòn, hết hạn sáng mai), Trăng Bạc (+30% sát thương một trận), Hỏa Bộc (R/nút Bùa nổ, ném gây 34 sát thương chỉ lên sói), Dịch Chuyển (Q/nút, đi tức thời theo WASD hoặc lùi khỏi sói, 0,4 giây tránh đòn), Phong Hành (+35% tốc độ chạy một trận), Lợi Tức (150% thu nhập bình minh kế tiếp, làm tròn xuống; đàn đói vẫn 0). Buff không cộng dồn; Trăng Bạc không cộng với thuốc tăng lực. Nghi thức ngẫu nhiên đã trả tiền từ bản cũ giữ nguyên kết quả khi tải lại, kể cả Lời Nguyền Đói (sáng mai mất thêm 10 độ no); vé mới chỉ nhận đúng loại bùa đã chọn.
 
 `dev/charms.html` kiểm thử cân và túi đồ; `dev/combat.html` có bùa để kiểm thử ném, dịch chuyển và buff. Cả hai độc lập với bản lưu người chơi. `charms.test.js` kiểm tra xác suất, tiền cược, tính duy nhất của kết quả, lưu/khôi phục, buff, thu nhập và phép chiến đấu.
